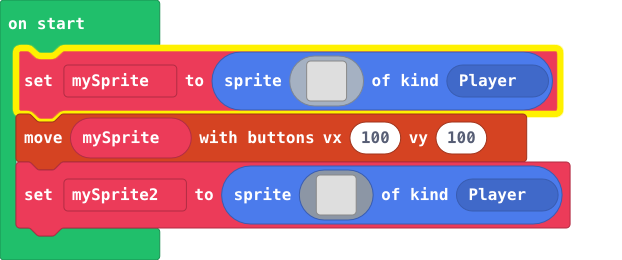
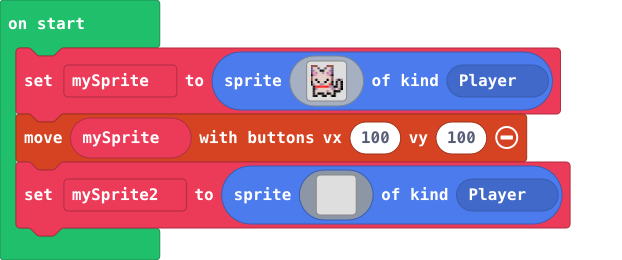
Update main.blocks, main.ts

Changed region(s): [[0.0, 0.1538, 0.9164, 0.5846], [0.4887, 0.2462, 0.5498, 0.3692]]

diff --git a/main.ts b/main.ts
@@ -16,36 +16,20 @@ let mySprite = sprites.create(img`
     `, SpriteKind.Player)
 controller.moveSprite(mySprite, 100, 100)
 let mySprite2 = sprites.create(img`
-    ...........222222ee.............
-    .........2233333bbeee...........
-    .......2233d1111333bee..........
-    ......23ddd111dd1d33eee.........
-    .....23d1333d1d33d13bee.........
-    ....23d133333d1d33313eee........
-    ...2311333333ddd3333dbeee.......
-    ..2313333333333ddd33d3e44e......
-    ..21d3333333333ddd333db44ee.....
-    .2313333333333dd33333db444ee....
-    .2dd3333333333d333333d3b444e....
-    2311d333333333d333333ddbb444e...
-    2d131d33333333d333333d1b6644e...
-    2d33dd33333333d333333d1b44444e..
-    21333d3333333d3333333d1644664ee.
-    21333d333333d33333333d16b64464be
-    21333dddd33dd33333333d1646446b6e
-    2133333dd11dd33333333d1644b6446e
-    e133333d1d31d33333333d1b4446446e
-    e1333331d3331333333331d6bb44b6e.
-    e1333331dd331b3333333136bb6bb6e.
-    e13333331dd1db33333331b6b66bbe..
-    edd33333311db3333333dd6bb6bbe...
-    e3d3333333d333333333136beebbe...
-    .edd3333333d3333333ddbfeebbe....
-    .e3dd33333dd3333333d3efeeee.....
-    ..e3dd333d1333333dd3bfffff......
-    ...e311111ddd333dddbffeef.......
-    ....eed1d33d111113befeff........
-    ......eeb333dd13beffff..........
-    ........eeeefffffee.............
-    ................................
+    . . . . . . . e e e e . . . . . 
+    . . . . . e e 4 5 5 5 e e . . . 
+    . . . . e 4 5 6 2 2 7 6 6 e . . 
+    . . . e 5 6 6 7 2 2 6 4 4 4 e . 
+    . . e 5 2 2 7 6 6 4 5 5 5 5 4 . 
+    . e 5 6 2 2 8 8 5 5 5 5 5 4 5 4 
+    . e 5 6 7 7 8 5 4 5 4 5 5 5 5 4 
+    e 4 5 8 6 6 5 5 5 5 5 5 4 5 5 4 
+    e 5 c e 8 5 5 5 4 5 5 5 5 5 5 4 
+    e 5 c c e 5 4 5 5 5 4 5 5 5 e . 
+    e 5 c c 5 5 5 5 5 5 5 5 4 e . . 
+    e 5 e c 5 4 5 4 5 5 5 e e . . . 
+    e 5 e e 5 5 5 5 5 4 e . . . . . 
+    4 5 4 e 5 5 5 5 e e . . . . . . 
+    . 4 5 4 5 5 4 e . . . . . . . . 
+    . . 4 4 e e e . . . . . . . . . 
     `, SpriteKind.Player)
